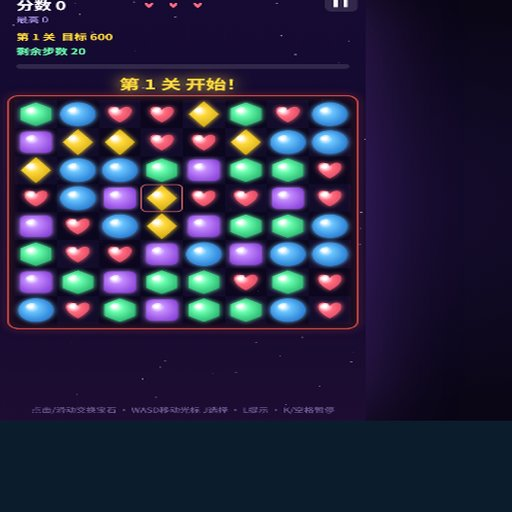
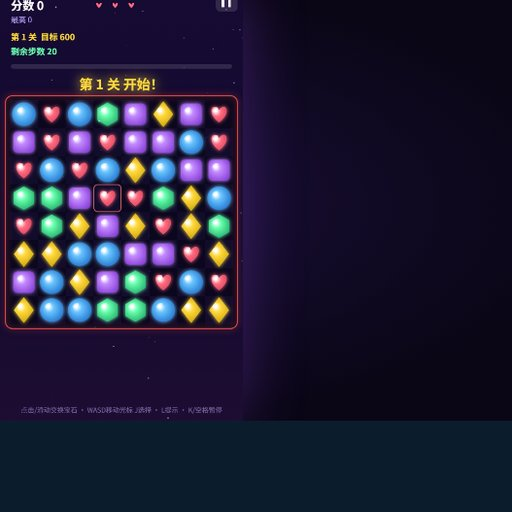
fix: 缩略图按像素密度裁切竖屏玩法区域
竖屏 Canvas 两侧星空仍占满 JPG 宽；按列密度裁切后再放大，展示格可铺满。

diff --git a/public/js/admin/game-thumbs.js b/public/js/admin/game-thumbs.js
@@ -77,6 +77,55 @@
     });
   }
 
+  function densityCropCanvas(canvas, minDensity, thr) {
+    var w = canvas.width;
+    var h = canvas.height;
+    var ctx = canvas.getContext('2d');
+    if (!ctx) return canvas;
+    var data = ctx.getImageData(0, 0, w, h).data;
+    var colD = [];
+    var rowD = [];
+    var x;
+    var y;
+    for (x = 0; x < w; x++) {
+      var c = 0;
+      for (y = 0; y < h; y++) {
+        var i = (y * w + x) * 4;
+        if (data[i] + data[i + 1] + data[i + 2] > thr) c++;
+      }
+      colD.push(c / h);
+    }
+    for (y = 0; y < h; y++) {
+      var r = 0;
+      for (x = 0; x < w; x++) {
+        var j = (y * w + x) * 4;
+        if (data[j] + data[j + 1] + data[j + 2] > thr) r++;
+      }
+      rowD.push(r / w);
+    }
+    var ax = [];
+    var ay = [];
+    for (x = 0; x < w; x++) if (colD[x] >= minDensity) ax.push(x);
+    for (y = 0; y < h; y++) if (rowD[y] >= minDensity) ay.push(y);
+    if (!ax.length || !ay.length) return canvas;
+    var left = ax[0];
+    var right = ax[ax.length - 1];
+    var top = ay[0];
+    var bottom = ay[ay.length - 1];
+    var pad = 4;
+    left = Math.max(0, left - pad);
+    top = Math.max(0, top - pad);
+    right = Math.min(w - 1, right + pad);
+    bottom = Math.min(h - 1, bottom + pad);
+    var tw = right - left + 1;
+    var th = bottom - top + 1;
+    var fin = document.createElement('canvas');
+    fin.width = tw;
+    fin.height = th;
+    fin.getContext('2d').drawImage(canvas, left, top, tw, th, 0, 0, tw, th);
+    return fin;
+  }
+
   function trimCanvasSource(canvas) {
     var w = canvas.width;
     var h = canvas.height;
@@ -119,39 +168,7 @@
     out.width = tw;
     out.height = th;
     out.getContext('2d').drawImage(canvas, left, top, tw, th, 0, 0, tw, th);
-
-    var minX = tw;
-    var minY = th;
-    var maxX = 0;
-    var maxY = 0;
-    var found = false;
-    var d2 = out.getContext('2d').getImageData(0, 0, tw, th).data;
-    for (var y2 = 0; y2 < th; y2++) {
-      for (var x2 = 0; x2 < tw; x2++) {
-        var j = (y2 * tw + x2) * 4;
-        var sum2 = d2[j] + d2[j + 1] + d2[j + 2];
-        if (sum2 > thr) {
-          found = true;
-          if (x2 < minX) minX = x2;
-          if (y2 < minY) minY = y2;
-          if (x2 > maxX) maxX = x2;
-          if (y2 > maxY) maxY = y2;
-        }
-      }
-    }
-    if (!found) return out;
-    var pad = 4;
-    minX = Math.max(0, minX - pad);
-    minY = Math.max(0, minY - pad);
-    maxX = Math.min(tw - 1, maxX + pad);
-    maxY = Math.min(th - 1, maxY + pad);
-    var fw = maxX - minX + 1;
-    var fh = maxY - minY + 1;
-    var fin = document.createElement('canvas');
-    fin.width = fw;
-    fin.height = fh;
-    fin.getContext('2d').drawImage(out, minX, minY, fw, fh, 0, 0, fw, fh);
-    return fin;
+    return densityCropCanvas(out, 0.1, thr);
   }
 
   function cropCover(img, w, h) {

diff --git a/public/js/games-hub.js b/public/js/games-hub.js
@@ -33,7 +33,7 @@
         var url = item.url || '';
         var m = url.match(/html\/game\/([^/?]+)\.html/i);
         if (!m) return '';
-        return 'assets/game/thumbs/' + m[1] + '.jpg?v=10';
+        return 'assets/game/thumbs/' + m[1] + '.jpg?v=11';
     }
 
     function bindSearch(toolbarEl) {

diff --git a/public/html/admin/private/ladder-update.html b/public/html/admin/private/ladder-update.html
@@ -96,6 +96,6 @@
   </main>
 
   <script src="../../../js/admin/ladder-update.js?v=gameThumbs1"></script>
-  <script src="../../../js/admin/game-thumbs.js?v=gameThumbs7"></script>
+  <script src="../../../js/admin/game-thumbs.js?v=gameThumbs8"></script>
 </body>
 </html>

diff --git a/deploy/capture-game-thumbs.py b/deploy/capture-game-thumbs.py
@@ -143,6 +143,36 @@ def trim_dark_edges(im: Image.Image, threshold: int = 20) -> Image.Image:
     return rgb.crop((left, top, right, bottom))
 
 
+def crop_dense_core(im: Image.Image, min_density: float = 0.10, threshold: int = 20) -> Image.Image:
+    """Keep columns/rows with enough gameplay pixels (fixes portrait pillarbox)."""
+    rgb = im.convert("RGB")
+    w, h = rgb.size
+    px = rgb.load()
+    thr = threshold * 3
+
+    col_density = [
+        sum(1 for y in range(h) if px[x, y][0] + px[x, y][1] + px[x, y][2] > thr) / h
+        for x in range(w)
+    ]
+    row_density = [
+        sum(1 for x in range(w) if px[x, y][0] + px[x, y][1] + px[x, y][2] > thr) / w
+        for y in range(h)
+    ]
+    active_x = [i for i, d in enumerate(col_density) if d >= min_density]
+    active_y = [i for i, d in enumerate(row_density) if d >= min_density]
+    if not active_x or not active_y:
+        return im
+    left, right = active_x[0], active_x[-1]
+    top, bottom = active_y[0], active_y[-1]
+    pad = 4
+    return rgb.crop((
+        max(0, left - pad),
+        max(0, top - pad),
+        min(w, right + 1 + pad),
+        min(h, bottom + 1 + pad),
+    ))
+
+
 DOM_BOARD_SLUGS = frozenset({"gomoku", "puzzle", "klotski"})
 
 
@@ -150,17 +180,18 @@ def square_crop(im: Image.Image, slug: str | None = None) -> Image.Image:
     box = content_bbox(im)
     im = im.crop(box)
     im = trim_dark_edges(im)
+    im = crop_dense_core(im)
     w, h = im.size
     if slug in DOM_BOARD_SLUGS and h > int(w * 1.08):
         top = int(h * 0.18)
         im = im.crop((0, top, w, h))
         im = trim_dark_edges(im)
+        im = crop_dense_core(im)
         w, h = im.size
     side = min(w, h)
     left = max(0, (w - side) // 2)
     top = max(0, (h - side) // 2)
     im = im.crop((left, top, left + side, top + side))
-    im = trim_dark_edges(im)
     return im
 
 
